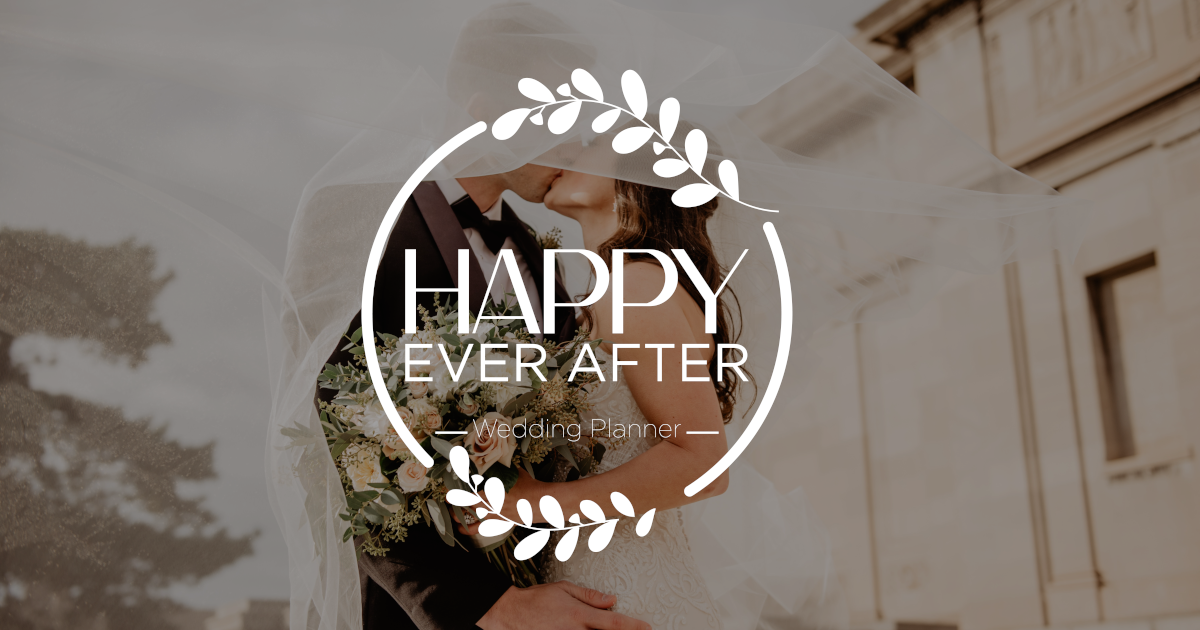
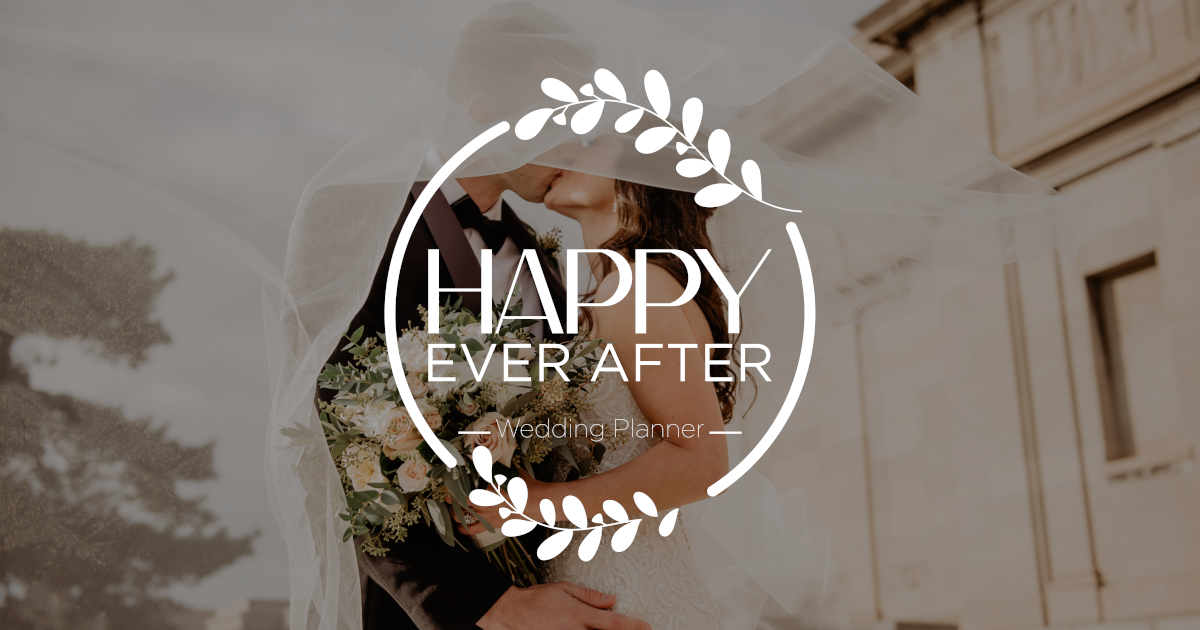
opening fixes

Changed region(s): [[0.2775, 0.0905, 0.6783, 0.9048]]

diff --git a/src/Pages/Home/Styles/HomeStyles.scss b/src/Pages/Home/Styles/HomeStyles.scss
@@ -38,8 +38,7 @@ button{
         position: sticky;
         width: fit-content;
         bottom: 5rem;
-        left: 50%;
-        transform: translate(-50%, -50%);
+        align-self: center;
         color: none;
         padding: 0.5rem 1rem;
         color: $white;
@@ -155,8 +154,8 @@ button{
     }
     
     @keyframes text-anim {
-        0%   {opacity: 0; transform: scale(0.9), translate(-50%)}
-        100%  {opacity: 1; transform: scale(1), translateY(-50%)}
+        0%   {opacity: 0; transform: scale(0.9)}
+        100%  {opacity: 1; transform: scale(1)}
     }
 
     @keyframes background-anim {
@@ -193,6 +192,7 @@ button{
     }
 
     @media (max-width: 800px) {
+        margin-top: -5.3rem;
         h2{
             font-size: 3.5rem;
         }

diff --git a/src/Pages/Home/Sections/Opening.js b/src/Pages/Home/Sections/Opening.js
@@ -25,7 +25,7 @@ const Opening = () => {
           </div>
         </div>
       </div>
-      <h1 className={`${animated ? "noanim" : "anim" }`}>Organizacja ślubu w Poznaniu</h1>
+      <h1 className={`${animated ? "noanim" : "anim" }`}>Organizacja ślubów w Poznaniu</h1>
     </section>
   )
 }

diff --git a/src/Nav/NavStyles.scss b/src/Nav/NavStyles.scss
@@ -67,7 +67,7 @@
 }
 
 .mobile-nav{
-    height: 10vh;
+    height: 5.3rem;
     flex-direction: row;
     width: 100vw;
     z-index: 2;
